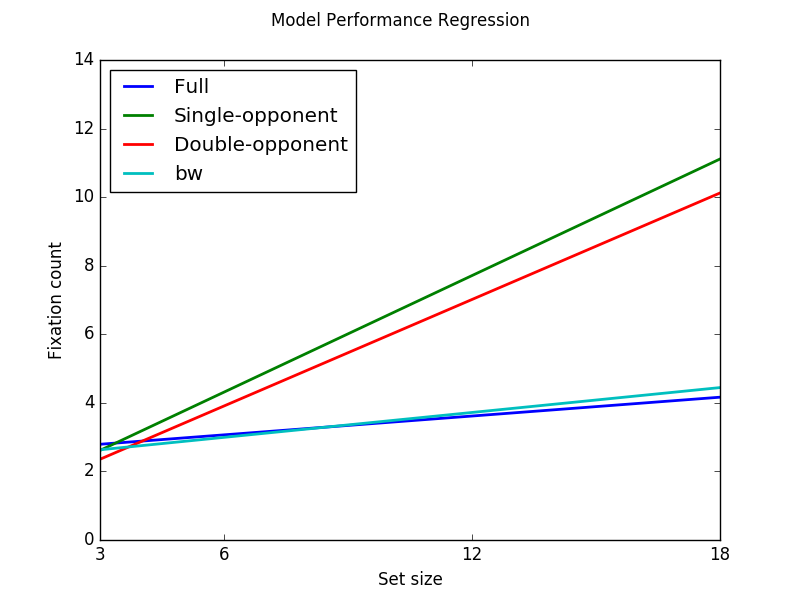
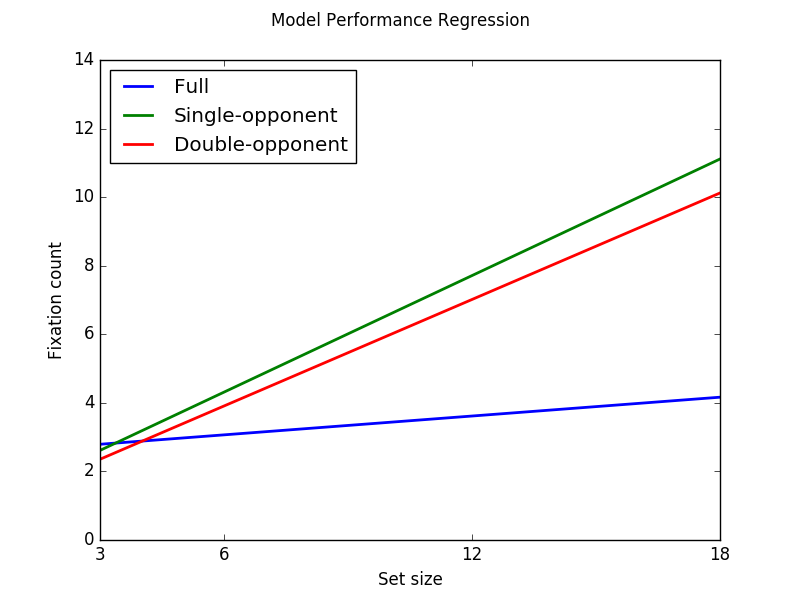
modifications

diff --git a/outdata/graphcompare.py b/outdata/graphcompare.py
@@ -8,8 +8,8 @@ import matplotlib.pyplot as plt
 
 global_datatypes = [
     ['miconi_serial', 'miconi_popout', 'conjunctions'],
-    ['bw', 'bw_so', 'bw_do', 'bw_bw'],
-    ['colorpopout', 'colorpopout_bw'],
+    ['bw', 'bw_so', 'bw_do'],
+    ['colorpopout', 'colorpopout_bw', 'colorpopout_do'],
     ['colorpopout', 'bw', 'miconi_popout'],
     ['conjunctions', 'conjunctions_bw', 'conjunctions_so','conjunctions_do'],
     # ['multiconjunction', 'multiconjunction_bw', 'multiconjunction_so','multiconjunction_do'],
@@ -20,8 +20,8 @@ global_datatypes = [
 titles = ['regressioncompare', 'bw', 'colorpopout', 'originalvsnew', 'conjunctions']#,'noscale','nofscale']
 captions = [
     ['Miconi Serial', 'Miconi Popout', 'Conjunctions'],
-    ['Full', 'Single-opponent', 'Double-opponent', 'bw'],
-    ['Full', 'Black-and-white'],
+    ['Full', 'Single-opponent', 'Double-opponent'],
+    ['Full', 'Black-and-white', 'Double-opponent'],
     ['Color Popout', 'Shape Popout', 'Miconi Popout'],
     ['Conjunctions', 'Black-and-white', 'Single-opponent', 'Double-opponent'],
     # ['multiconjunction', 'multiconjunction_bw', 'multiconjunction_so','multiconjunction_do'],

diff --git a/colormodel.py b/colormodel.py
@@ -487,7 +487,7 @@ def main(which, outname=None, scenepath=None, feature_mode='both', prio_scaling=
 if __name__ == '__main__':
     modes = ['run', 'show', 'imgprots', 'objprots', 'batch', 'allprots']
 
-    which = 'batch'
+    which = 'show'
     assert which in modes
 
     # outname, scenepath, feature_mode, prio_scaling, feedback_scaling = (None, None, None, None, None)

diff --git a/outdata/regressioncomparisons.py b/outdata/regressioncomparisons.py
@@ -17,8 +17,8 @@ pairs = [
     # check colorpopout
     [],
     ('colorpopout', 'colorpopout_bw'),
-    # ('colorpopout', 'colorpopout_do'),
-    # ('colorpopout_bw', 'colorpopout_do'),
+    ('colorpopout', 'colorpopout_do'),
+    ('colorpopout_bw', 'colorpopout_do'),
 
     # conjunctions
     [],
